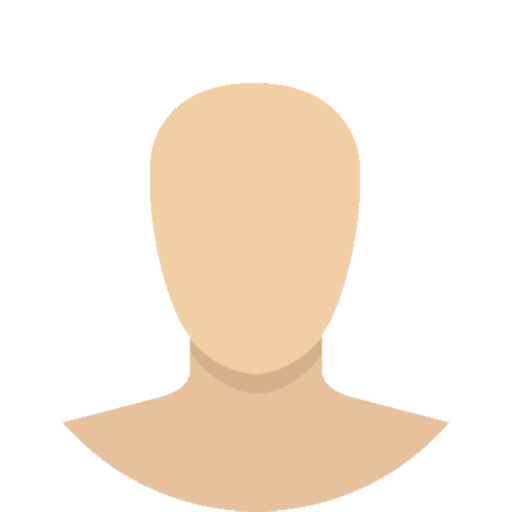
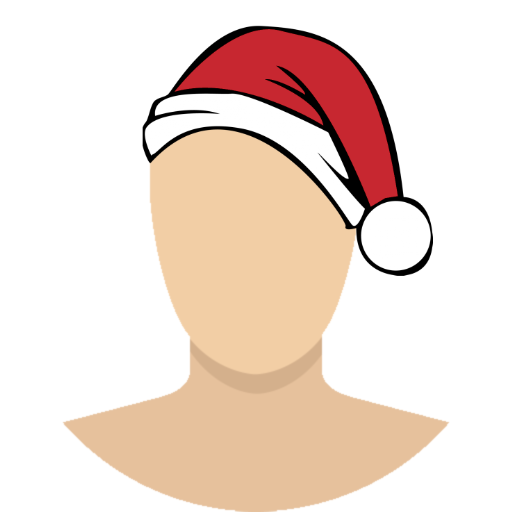
🎅 Christmas time (#641)

Changed region(s): [[0.25, 0.0312, 0.8438, 0.5625]]

diff --git a/webpack.mix.js b/webpack.mix.js
@@ -11,7 +11,8 @@ const mix = require("laravel-mix");
  |
  */
 
-mix.js("resources/js/app.js", "public/js")
+mix.js("resources/js/snow.js", "public/js")
+    .js("resources/js/app.js", "public/js")
     .js("resources/js/stats.js", "public/js")
     .sass("resources/sass/app.scss", "public/css")
     .js("resources/js/admin.js", "public/js")

diff --git a/resources/js/snow.js b/resources/js/snow.js
@@ -1,0 +1,9 @@
+import * as Snow from "snowfall.js/snow.js";
+
+window.onload = function () {
+    let snow = new Snow.default({
+        id: "snow"
+    });
+
+    snow.start();
+}

diff --git a/resources/views/settings/settings.blade.php b/resources/views/settings/settings.blade.php
@@ -7,6 +7,31 @@
         <div class="row justify-content-center">
             <div class="col-md-8 col-lg-7">
                 @include('settings.cards.general')
+
+                <div class="card mt-3">
+                    <div class="card-header">🎄 {{ __('christmas-mode') }}</div>
+
+                    <div class="card-body text-center">
+
+                        <form method="POST" action="{{ route('christmas-mode') }}">
+                            @csrf
+
+                            @if(session()->get('christmas-mode') === true)
+                                <input type="hidden" name="christmas-mode" value="0"/>
+                                <button type="submit" class="btn btn-secondary">
+                                    🎁 {{ __('christmas-mode.disable') }} ⛄
+                                </button>
+                            @else
+                                <input type="hidden" name="christmas-mode" value="1"/>
+                                <button type="submit" class="btn btn-success">
+                                    🎁 {{ __('christmas-mode.enable') }} ⛄
+                                </button>
+                            @endif
+                        </form>
+                    </div>
+                </div>
+
+
                 @include('settings.cards.privacy')
                 @include('settings.cards.password')
                 @include('settings.cards.login-providers')

diff --git a/resources/views/layouts/app.blade.php b/resources/views/layouts/app.blade.php
@@ -20,6 +20,10 @@
         <link rel="author" href="/humans.txt">
 
         @yield('head')
+
+        @if(session()->get('christmas-mode') === true)
+            <script src="{{ mix('js/snow.js') }}"></script>
+        @endif
     </head>
     <body>
         <div class="modal fade bd-example-modal-lg" id="notifications-board" tabindex="-1" role="dialog"
@@ -50,6 +54,11 @@
             <nav class="navbar navbar-expand-md navbar-dark {{ !config('app.debug') ? 'bg-trwl' : 'bg-black' }}">
                 <div class="container">
                     <a class="navbar-brand" href="{{ url('/') }}">
+                        @if(\Carbon\Carbon::now()->isBetween(\Carbon\Carbon::parse('2021-12-24 00:00'), \Carbon\Carbon::parse('2021-12-27 23:59')))
+                            🎁
+                        @elseif(\Carbon\Carbon::now()->isBefore('2022-01-06'))
+                            🎄
+                        @endif
                         {{ config('app.name', 'Träwelling') }}
                     </a>
                     <div class="navbar-toggler">
@@ -250,6 +259,10 @@
             var urlUnfollow      = '{{ route('follow.destroy') }}';
             var urlAutocomplete  = '{{ url('transport/train/autocomplete') }}';
         </script>
+
+        @if(session()->get('christmas-mode') === true)
+            <div id="snow"></div>
+        @endif
     </body>
     @yield('footer')
 </html>

diff --git a/routes/web.php b/routes/web.php
@@ -11,6 +11,7 @@
 |
 */
 
+use App\Http\Controllers\ChristmasController;
 use App\Http\Controllers\Frontend\AccountController;
 use App\Http\Controllers\Frontend\EventController;
 use App\Http\Controllers\Frontend\Export\ExportController;
@@ -122,6 +123,9 @@ Route::get('/ics', [IcsController::class, 'renderIcs'])
  * All of these routes can only be used by fully registered users.
  */
 Route::middleware(['auth', 'privacy'])->group(function() {
+    Route::post('/christmas-mode', [ChristmasController::class, 'toggleChristmasMode'])
+         ->name('christmas-mode');
+
     Route::post('/ics/createToken', [IcsController::class, 'createIcsToken'])
          ->name('ics.createToken');
     Route::post('/ics/revokeToken', [IcsController::class, 'revokeIcsToken'])

diff --git a/app/Http/Controllers/ChristmasController.php b/app/Http/Controllers/ChristmasController.php
@@ -1,0 +1,19 @@
+<?php
+
+namespace App\Http\Controllers;
+
+use Illuminate\Http\RedirectResponse;
+use Illuminate\Http\Request;
+
+/**
+ * @todo Revert this PR after 2022-01-06
+ */
+class ChristmasController extends Controller
+{
+
+    public static function toggleChristmasMode(Request $request): RedirectResponse {
+        $validated = $request->validate(['christmas-mode' => ['required', 'boolean']]);
+        session()->put('christmas-mode', $validated['christmas-mode'] === "1");
+        return back()->with('info', __('merry-christmas'));
+    }
+}
